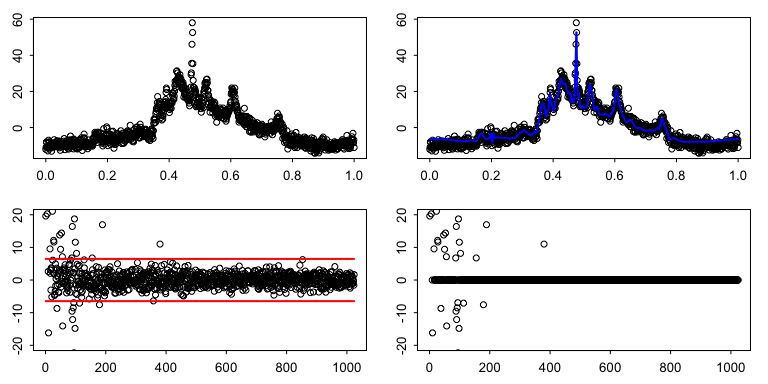
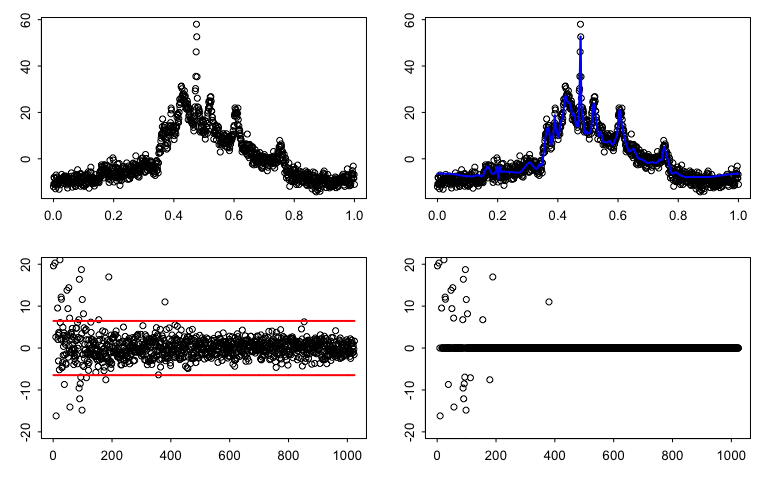
modif readme

diff --git a/README.md b/README.md
@@ -24,38 +24,43 @@ library(rwavelet)
 Getting started
 ---------------
 
-Denoising of an experimental nuclear magnetic resonance (NMR) spectrum
+Here is an example of denoising of an experimental nuclear magnetic resonance (NMR) spectrum. We start by loading the data.
 
 ``` r
 data("RaphNMR")
-j0 <- 0
 Y <- RaphNMR
 n <- length(Y)
 t <- seq(0, 1, length = n)
+```
+
+Then we specify the coarse decomposition scale *j*<sub>0</sub>, the wavelets we want to use (here, Symmlet with 6 null moments) and we perform a fast wavelet transform to get the noisy wavelet coefficients (Ywd).
+
+``` r
+j0 <- 0
 J <- log2(n)
 qmf <- MakeONFilter('Symmlet',6)
-
-
-Ywd <- FWT_PO(Y,j0,qmf)
+Ywd <- FWT_PO(Y, j0, qmf)
 Ywnoise <- Ywd
+```
 
-# estimate sigma using the maximum absolute deviation
-# (using only the finest scale coefficients)
+We estimate the standard deviation *σ* of th noise using the maximum absolute deviation (with only the finest scale coefficients). We apply a hard thresholding rule (with a universal threshold) to the coefficient estimators and obtain the estimator by applying an inverse transform.
+
+``` r
 hatsigma <- MAD(Ywd[(2^(J-1)+1):2^J])
-# universal thresholding
 lambda <- sqrt(2*log(n))*hatsigma
-# apply hard thresholding 
-Ywd[(2^(j0)+1):n] <- HardThresh(Ywd[(2^(j0)+1):n],lambda)
+Ywd[(2^(j0)+1):n] <- HardThresh(Ywd[(2^(j0)+1):n], lambda)
 fhat <- IWT_PO(Ywd, j0, qmf)
+```
 
+``` r
 par(mfrow=c(2,2), mgp = c(1.2, 0.5, 0), tcl = -0.2,
-    mar = .1 + c(2,2,1,1), oma = c(0,0,0,0))
-plot(t,Y,xlab="",ylab="")
-plot(t,Y,xlab="",ylab="")
+    mar = .1 + c(2.5,2.5,1,1), oma = c(0,0,0,0))
+plot(t,Y,xlab="", ylab="")
+plot(t,Y,xlab="", ylab="")
 matlines(t, fhat, lwd=2, col="blue", lty=1)
 plot(Ywnoise, ylim=c(-20, 20), xlab="", ylab="")
-matlines(rep(lambda,n), lwd=2,col="red",lty=1)
-matlines(-rep(lambda,n), lwd=2,col="red",lty=1)
+matlines(rep(lambda, n), lwd=2,col="red",lty=1)
+matlines(-rep(lambda, n), lwd=2,col="red",lty=1)
 plot(Ywd, ylim=c(-20,20), xlab="", ylab="")
 ```
 
